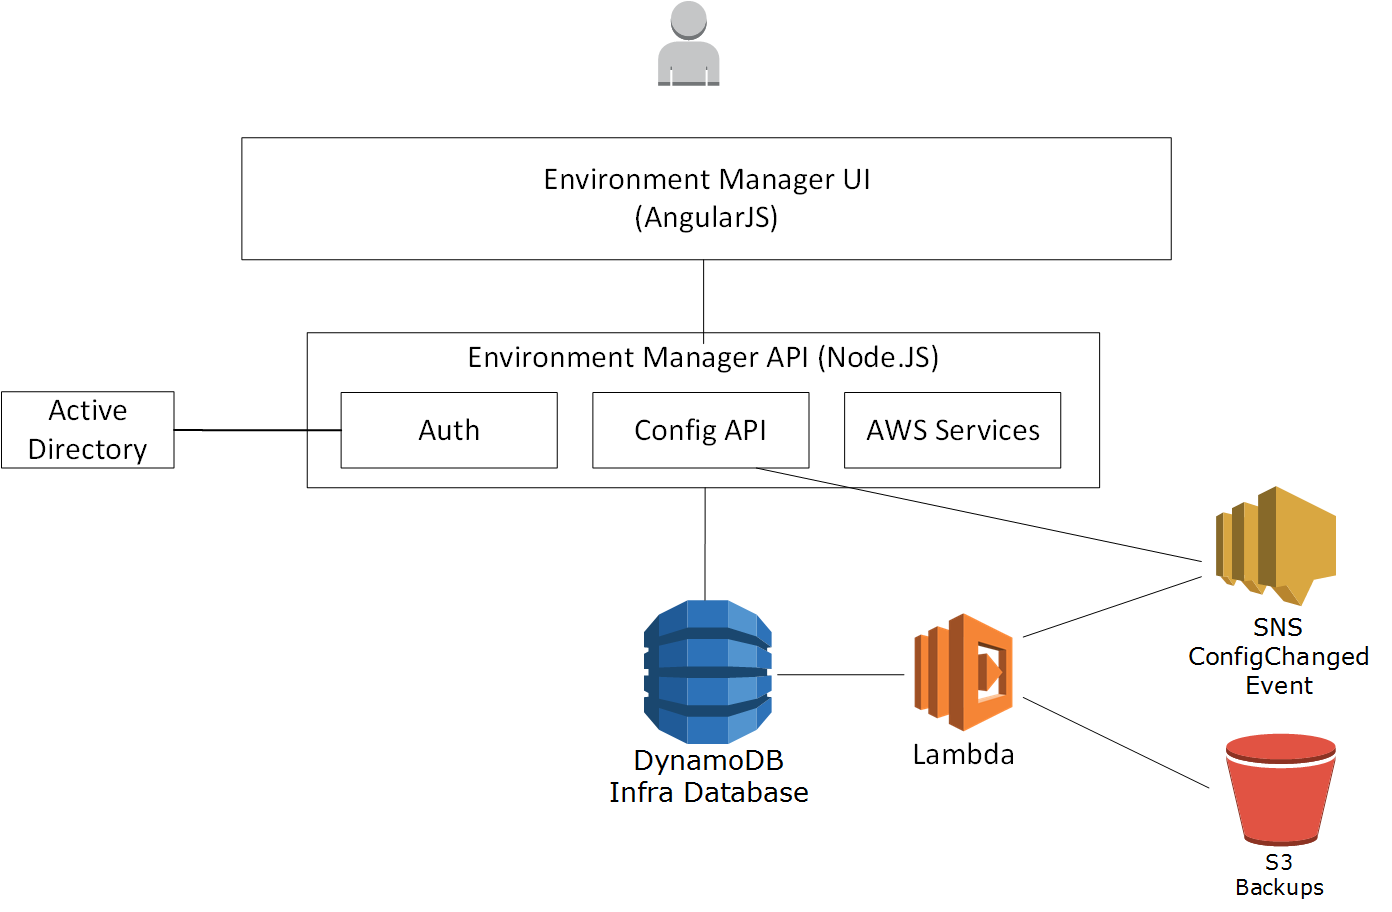
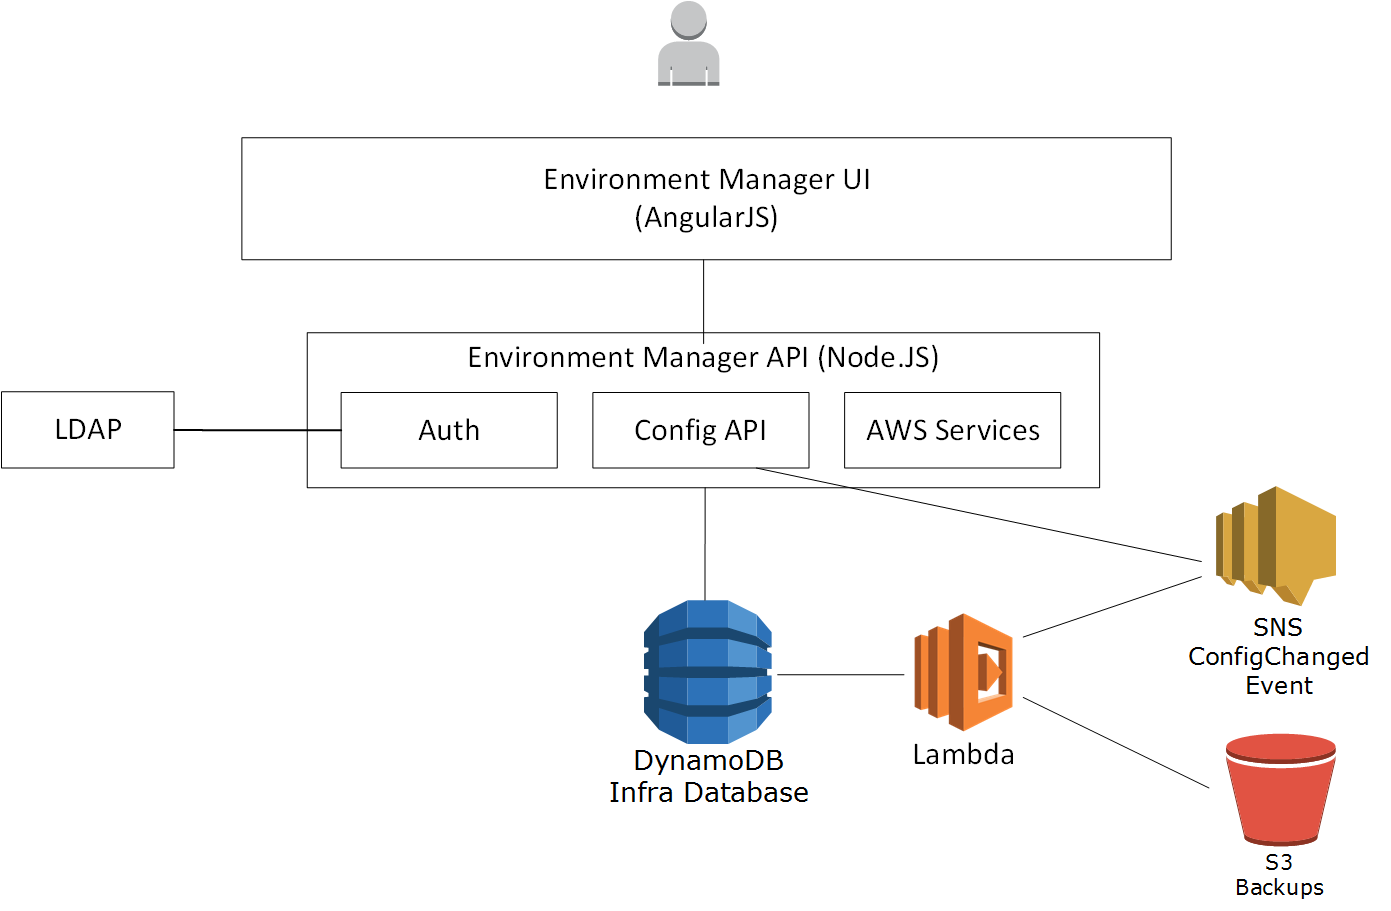
General site fixes and updates

diff --git a/docs/user-guide/permissions.md b/docs/user-guide/permissions.md
@@ -106,11 +106,11 @@ Although you can assign permissions directly to a user, this isn't particularly 
 
 Groups can also be members of other groups, and inherit those groups permissions, as do members of that group.
 
-Group membership is controlled by Active Directory, while permissions - which are specific to Environment Manager - are controlled by Environment Manager.
+Group membership is controlled by LDAP, while permissions - which are specific to Environment Manager - are controlled by Environment Manager.
 
 ### Managing Permissions
 
-Let's demonstrate how to assign or modify permissions for an Active Directory user or group.
+Let's demonstrate how to assign or modify permissions for an LDAP user or group.
 
 First you should understand that permissions are a secured resource like any other. In order to work with permission sets in Environment Manager, you must already have permission to '/config/permissions/*' resources. If you do not, you will not see the appropriate create, edit and delete controls in the Environment Manager UI.
 
@@ -120,7 +120,7 @@ First use the menu to navigate to Configuration > Users & Groups. You should see
 
 ### Deleting
 
-You can delete a set of permissions by clicking the delete button on this screen. This does not delete the user or group from Active Directory. It merely removes all permissions assigned to that user in Environment Manager.
+You can delete a set of permissions by clicking the delete button on this screen. This does not delete the user or group from LDAP. It merely removes all permissions assigned to that user in Environment Manager.
 
 ### Creating and Modifying
 
@@ -128,6 +128,6 @@ In order to create a new set of permissions click the "Create New..." button at 
 
 ![Create new User Screen](/environment-manager/assets/images/create-new-user.png)
 
-When creating a new set of permissions, you will need to supply a name, and that name will need to match the name of a user or group within Active Directory. When editing an existing set, you will not be able to change the name. Instead, create a new set.
+When creating a new set of permissions, you will need to supply a name, and that name will need to match the name of a user or group within LDAP. When editing an existing set, you will not be able to change the name. Instead, create a new set.
 
 When creating or editing a permission set you must supply a properly formatted JSON array of permissions. The UI will not allow you to save a set until it is valid.

diff --git a/overview/assumptions.md b/overview/assumptions.md
@@ -11,7 +11,7 @@ The major assumptions are that:
 -	All infrastructure must be hosted in AWS (no hybrid or other Cloud providers are supported)
 -	All EC2 instances are deployed into [Auto-Scaling Groups](/environment-manager/docs/concepts#asgs) for easier management
 -	Consul is used for service discovery, health checks and deployment
--	Active Directory/LDAP is used to authenticate users within the tool and detect group membership for permissions
+-	LDAP (e.g. Active Directory) is used to authenticate users within the tool and detect group membership for permissions
 -	NGINX is used for load balancing
 
 Dependencies have largely been designed to be pluggable, so if you prefer an alternative technology it should be supportable with relatively minor code changes. Similarly, Trainline specific standards (e.g. for how instances are named and tagged) can be adjusted to suit your own requirements with some small development effort.
@@ -22,11 +22,9 @@ Additional limitations to note:
 
 -	Only EC2 instances are supported, ECS Container and Lambda support will follow
 -	Only a single AWS Region is supported, though it can be any region you wish. Multi-region support is planned
--	There is no explicit uninstall API - which is not as much of a problem in practice as it sounds. This feature is coming soon.
 
 Additional assumptions:
 
 -	Custom AMIs used for deployment are assumed to be available for all [Child AWS Accounts](/environment-manager/docs/setup/aws-accounts). EM does not currently support selecting different AMIs depending on the target account.
--	Deployed EC2 instances have CloudWatch Enhanced Monitoring turned on automatically. If you don’t want this, you can disable this part of the code
 -	Environment Manager makes a number of assumptions about the AWS resource naming conventions. These are described in the [Conventions](/environment-manager/docs/conventions) section and can be modified in code as necessary to support your preferences
 -	Packages for deployment are assumed to be in AWS CodeDeploy zip format <http://docs.aws.amazon.com/codedeploy/latest/userguide/app-spec-ref.html>. This is a simple format that is agnostic to the platform or technologies being deployed.

diff --git a/docs/setup/aws-accounts.md b/docs/setup/aws-accounts.md
@@ -26,7 +26,7 @@ This section sets out the master AWS account pre-requisites:
         •	TCP 443 from your internal network - to allow other systems to call the EM APIs and browse the website
         •	TCP 1025-65535 0.0.0.0/0 – to allow return packets from AWS services such as S3
       -	Outgoing
-        •	Active Directory ports to where your AD servers are hosted: http://blogs.msmvps.com/acefekay/2011/11/01/active-directory-firewall-ports-let-s-try-to-make-this-simple/
+        •	Ports to where your LDAP servers are hosted: http://blogs.msmvps.com/acefekay/2011/11/01/active-directory-firewall-ports-let-s-try-to-make-this-simple/
         •	TCP 8500 to all destinations in your AWS network that will fall under EM control. This allows access for Consul.
         •	TCP 443 to your NGINX servers in all environments
         •	AWS Services such as S3:
@@ -41,7 +41,7 @@ Environment Manager makes use of S3 in the master account for three different re
 -	To hold its application configuration file
 -	To securely store credentials and access keys referenced by the configuration file. For example:
     -	Consul security tokens – for allowing access to alter Consul’s key-value store
-    -	Active Directory service account – used for user authorisation
+    -	LDAP service account – used for user authorisation
 -	To store nightly backups of the EM configuration database. For each of these purposes, you will need to create or identify an S3 bucket/path that can be used to hold each type of data. These could all be under a single bucket using folders but we would recommend at least separating the secure data into its own bucket that has more specific access controls.
 
 Notes

diff --git a/docs/user-guide/api.md b/docs/user-guide/api.md
@@ -12,7 +12,7 @@ To call any API, it is first necessary to obtain a security token that can be us
 
 ### Getting a Token
 
-Tokens are issued by calling the /api/token endpoint and passing appropriate Active Directory credentials.
+Tokens are issued by calling the /api/v1/token endpoint and passing appropriate LDAP credentials.
 Post the following parameters in url-encoded format:
 
 -	grant_type: Only currently supported is password.
@@ -22,20 +22,20 @@ Post the following parameters in url-encoded format:
 For example:
 
 ```
-curl -Uri https://environmentmanager.your.local.domain/api/token 
+curl -Uri https://environmentmanager.your.local.domain/api/v1/token 
      -Method POST 
      -Body "grant_type=password&username={your.local.domain\user_name}&password={user_password}"
 ```
 
-This API returns a plain text bearer token that contains encrypted user and permission data based on Active Directory group membership.
+This API returns a plain text bearer token that contains encrypted user and permission data based on LDAP group membership.
 
 Note: Tokens automatically expire after 5 minutes so should be obtained immediately before calling Environment Manager APIs.
 
 ### Using the Token
 
-Apart from /api/token, all other APIs expect a token to be passed as an Authorization header. For example:
+Apart from /api/v1/token, all other APIs expect a token to be passed as an Authorization header. For example:
 
 ```
-curl -Uri https://environmentmanager.your.local.domain/api/accounts
+curl -Uri https://environmentmanager.your.local.domain/api/v1/config/accounts
      -Headers @{"Authorization" = "Bearer {issued_token}"}
 ```

diff --git a/docs/app-setup/config-file.md b/docs/app-setup/config-file.md
@@ -54,11 +54,11 @@ Here is a sample config file you can use to get started..
 
 ### Active Directory
 
-This section describes the settings Environment Manager needs to connect to your Active Directory server.
+This section describes the settings Environment Manager needs to connect to your LDAP server.
 
 ### Authentication
 
-The main part of the authentication section to be aware of is the 'defaultAdmin' setting. This setting represents the name of an Active Directory user or group. If the permissions table is empty, Environment Manager will create a permissions set for this identity to allow the first user to log in to the system. This user will have complete access to all resources and operations. If this value is not present when Environment Manager first starts, the system will throw an error and not be able to start.
+The main part of the authentication section to be aware of is the 'defaultAdmin' setting. This setting represents the name of a user or group. If the permissions table is empty, Environment Manager will create a permissions set for this identity to allow the first user to log in to the system. This user will have complete access to all resources and operations. If this value is not present when Environment Manager first starts, the system will throw an error and not be able to start.
 
 ### Server Settings
 

diff --git a/docs/setup/ldap.md b/docs/setup/ldap.md
@@ -1,12 +1,12 @@
 ---
-title: Active Directory
+title: LDAP
 layout: docs
 weight: 60
 ---
 
-Environment Manager uses Active Directory to authenticate users and to read group membership to assign permissions within the tool.
+Environment Manager uses LDAP (e.g. Active Directory) to authenticate users and to read group membership to assign permissions within the tool.
 
-The setup of Active Directory is pretty simple:
+The setup of LDAP is pretty simple:
 
 - Create a service account 
     - This will be used by Environment Manager to query the domain controller and seek permission to authenticate users. It does not require any specific permissions other than to be a member of the correct domain.

diff --git a/docs/roadmap.md b/docs/roadmap.md
@@ -8,7 +8,6 @@ Here are the top 5 features and code improvements we have planned for the next f
 
 **Features:**
 
-  -	Uninstall for deployments
   -	SNS notifications for config changes/environment events
   -	ECS container and AWS Lambda deployment support
   -	Improved Canary deployments
@@ -16,9 +15,8 @@ Here are the top 5 features and code improvements we have planned for the next f
 
 **Code enhancements:**
 
-  -	Updated API
-  -	Improved caching
   -	Remove Artifactory dependency
+  - Simplified deployment
   -	Remove cross-account Dynamo tables (simplified setup)
   -	Dynamo schema and performance improvements
 

diff --git a/overview/technology.md b/overview/technology.md
@@ -10,7 +10,7 @@ Under the hood Environment Manager is built with the following technologies:
 -	Lambda functions help with housekeeping and ancillary tasks such as instance scheduling
 -	Consul is used for service discovery, health checks and deployment
 -	Configuration is held in DynamoDB
--	Active Directory is used to authenticate users within the tool and detect group membership
+-	Users are authenticated against an LDAP directory (e.g. Active Directory)
 
 The diagram below shows a logical view of the application architecture.
 

diff --git a/docs/setup/iam-setup.md b/docs/setup/iam-setup.md
@@ -174,4 +174,4 @@ The steps below create a test Instance Profile that can be used for testing depl
         - Role Type: AWS Service Roles\Amazon EC2
         - Policy: select the “CommonInstanceProfile” created above
 
-[Next (Active Directory) >](/environment-manager/docs/setup/active-directory)
+[Next (LDAP) >](/environment-manager/docs/setup/ldap)

diff --git a/docs/installation.md b/docs/installation.md
@@ -21,7 +21,7 @@ Installing Environment Manager requires setup and configuration of the following
     - Master AWS Account
     - Child AWS Account(s)
 -	Consul
--	Active Directory
+-	LDAP
 -	Environment Manager application
 -	Machine images ( [AMIs](/environment-manager/docs/concepts#amis) )
 -	Configuration Management tooling
